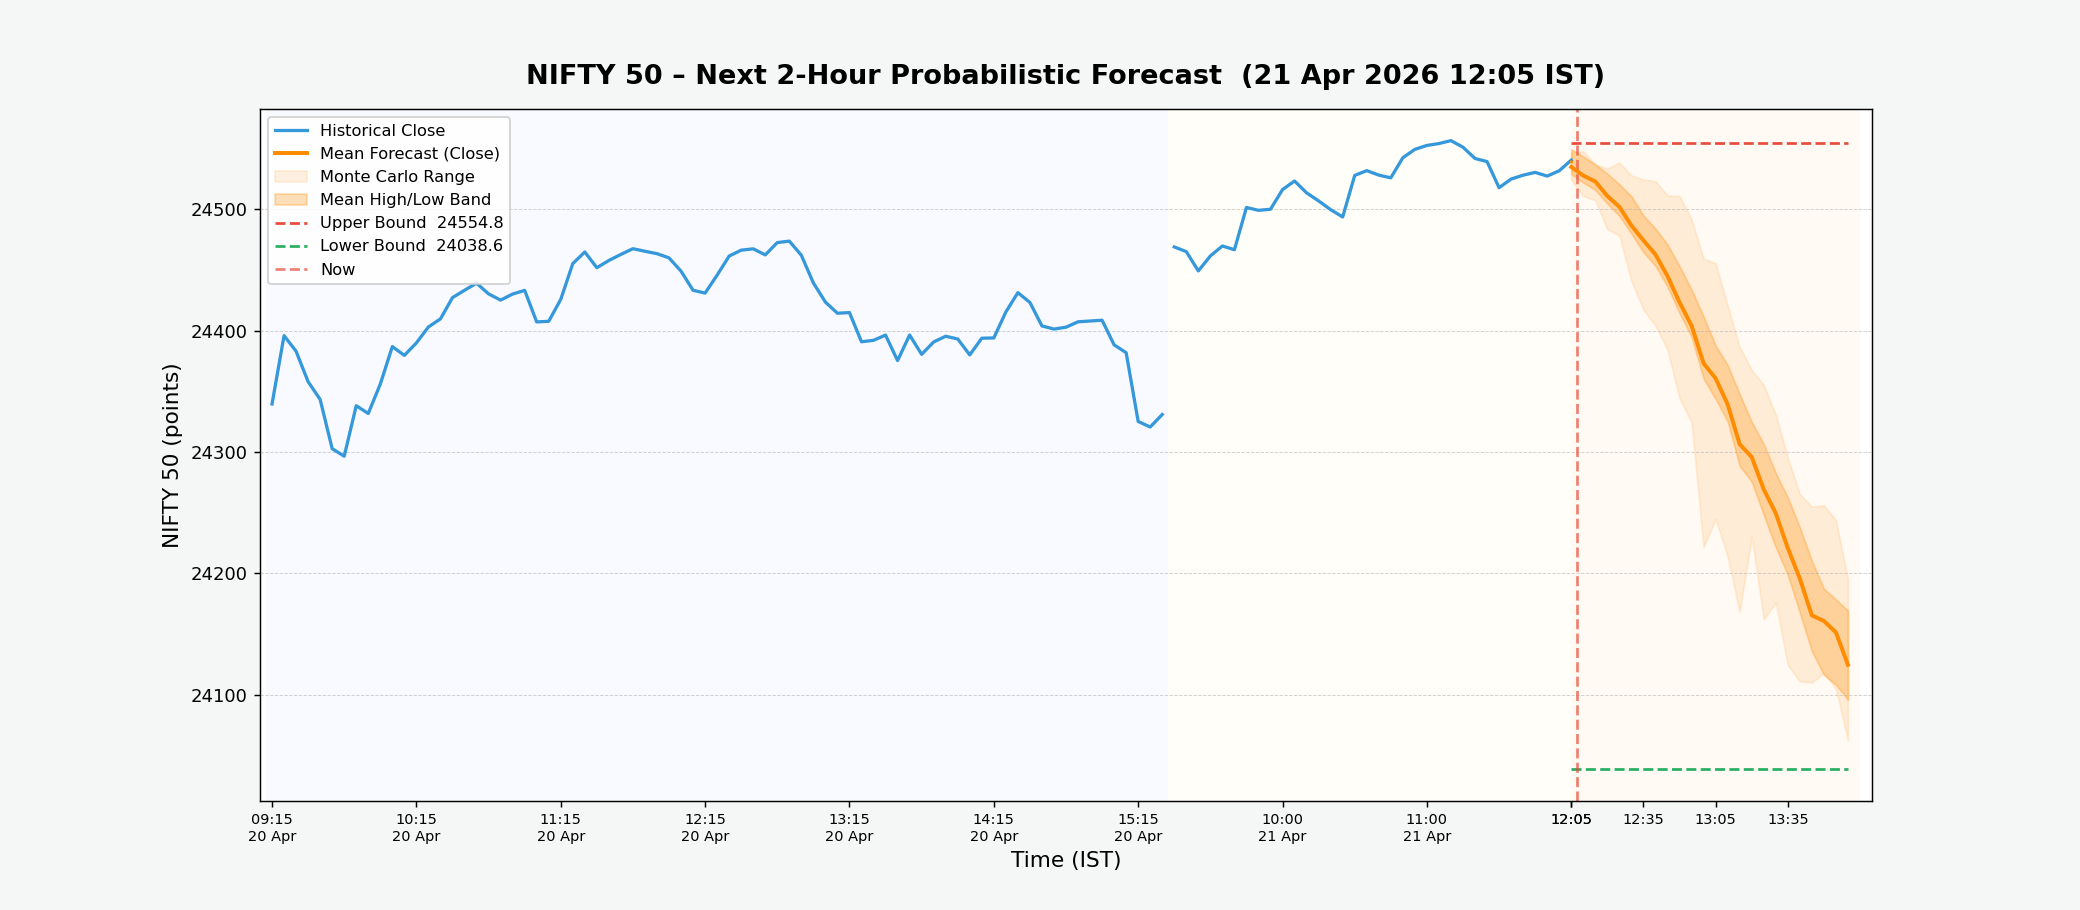
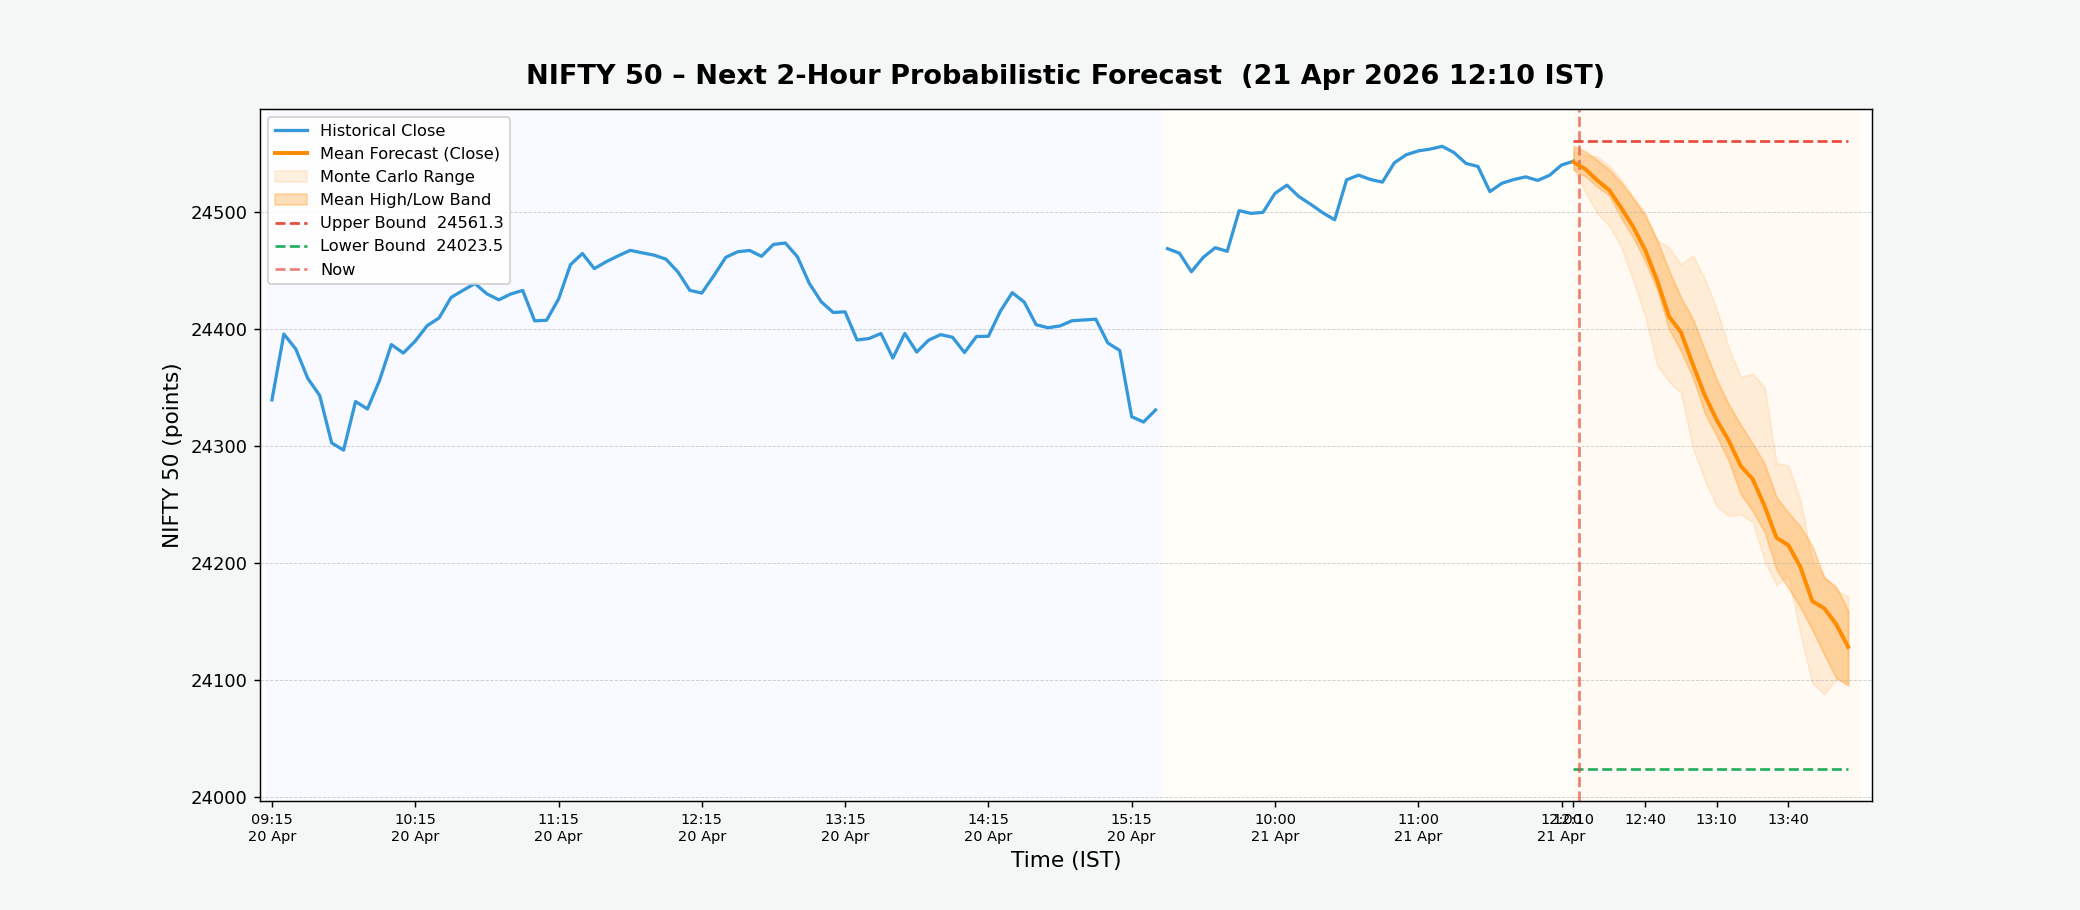
NIFTY forecast update – 2026-04-21 12:10 IST

diff --git a/index.html b/index.html
@@ -24,29 +24,29 @@
 
         <!-- Timestamp bar -->
         <div class="timestamp-bar">
-            <span>Last updated (IST):&nbsp;<strong id="update-time">2026-04-21 12:05:04</strong></span>
+            <span>Last updated (IST):&nbsp;<strong id="update-time">2026-04-21 12:10:04</strong></span>
         </div>
 
         <!-- Metric cards -->
         <div class="metrics-container">
             <div class="metric-card bullish">
                 <div class="metric-label">Bullish Bar Ratio</div>
-                <div class="metric-value" id="upside-prob">13.8%</div>
+                <div class="metric-value" id="upside-prob">12.5%</div>
                 <div class="metric-sub">Next 2h · close &gt; open %</div>
             </div>
             <div class="metric-card upper">
                 <div class="metric-label">Upper Bound</div>
-                <div class="metric-value" id="upper-bound">24554.8</div>
+                <div class="metric-value" id="upper-bound">24561.3</div>
                 <div class="metric-sub">Max predicted high</div>
             </div>
             <div class="metric-card lower">
                 <div class="metric-label">Lower Bound</div>
-                <div class="metric-value" id="lower-bound">24038.6</div>
+                <div class="metric-value" id="lower-bound">24023.5</div>
                 <div class="metric-sub">Min predicted low</div>
             </div>
             <div class="metric-card range">
                 <div class="metric-label">Predicted Range</div>
-                <div class="metric-value" id="pred-range">516.2 pts</div>
+                <div class="metric-value" id="pred-range">537.8 pts</div>
                 <div class="metric-sub">Upper − Lower spread</div>
             </div>
         </div>
